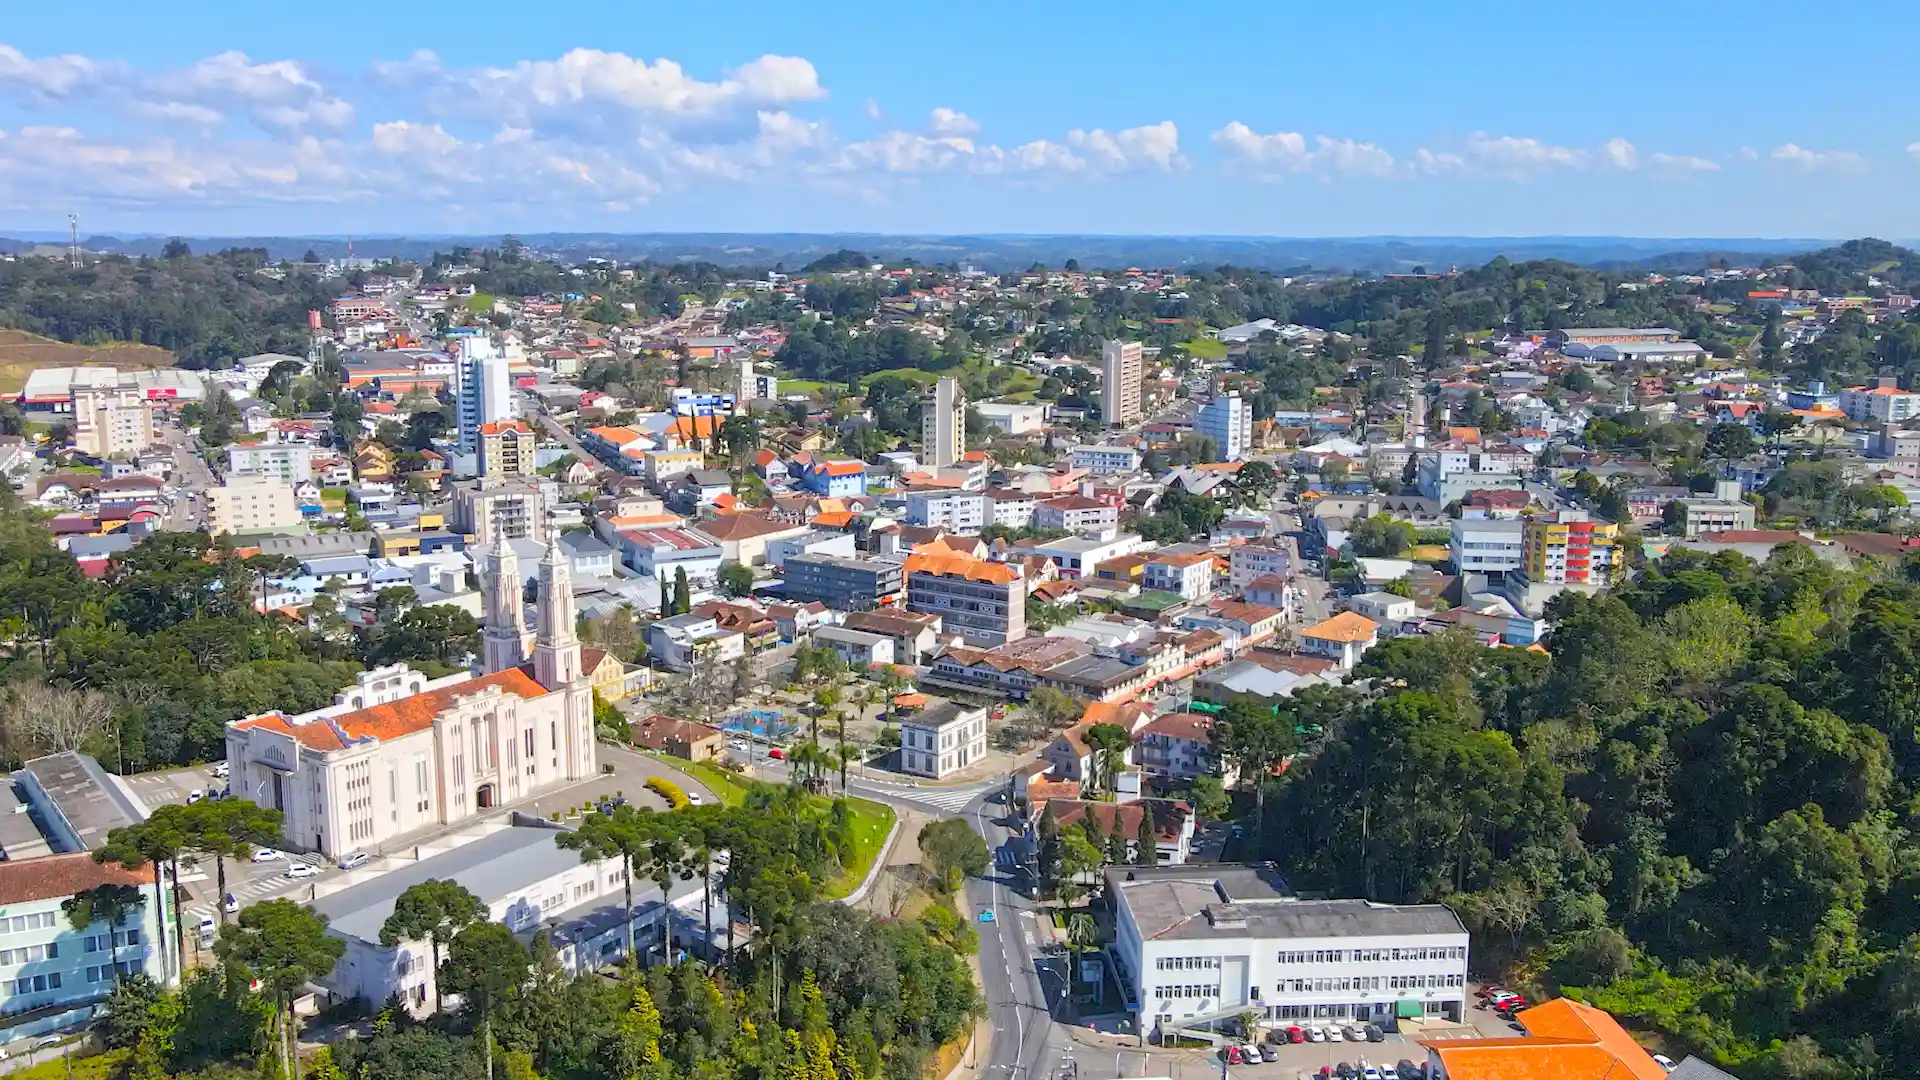
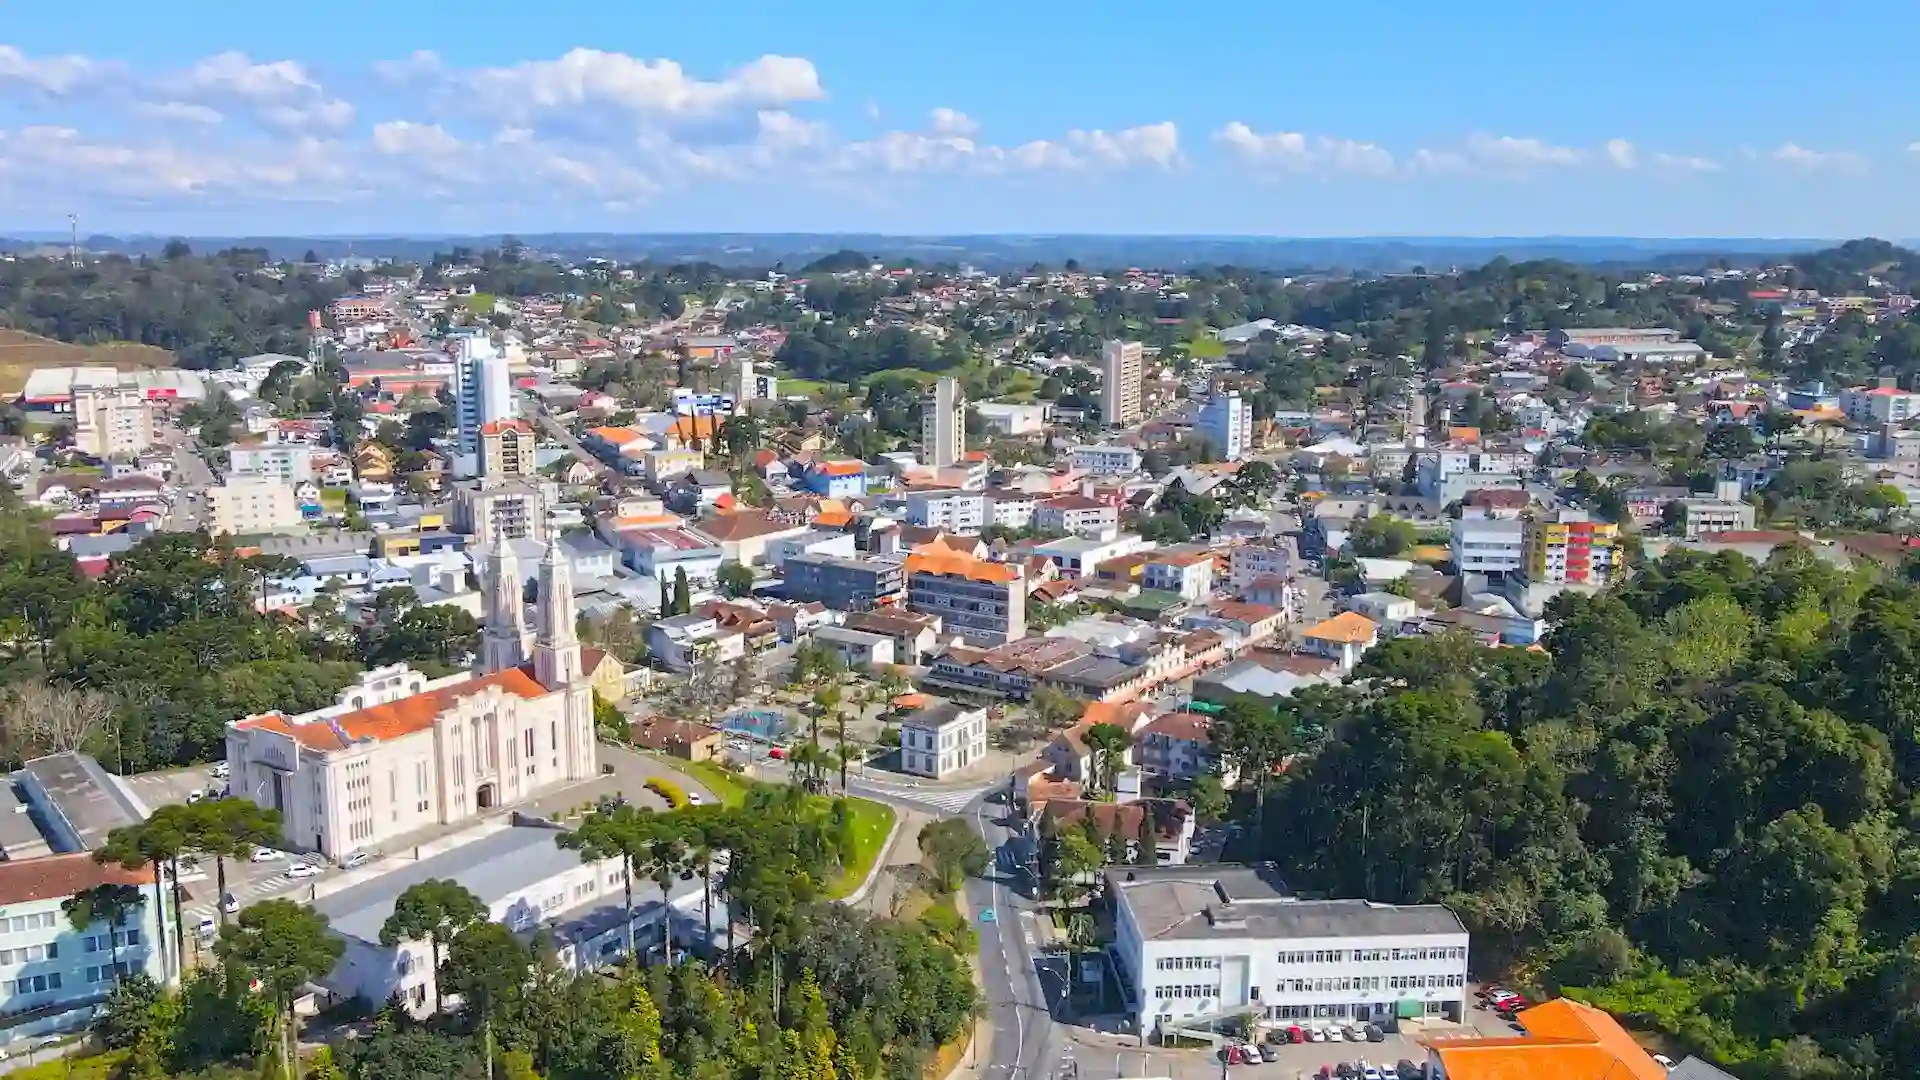
ajustes de imagens e correção no código html

diff --git a/chamber/thankyou.html b/chamber/thankyou.html
@@ -23,6 +23,10 @@
 
     <link rel="stylesheet" href="styles/reset.css"> 
     <link rel="stylesheet" href="styles/main.css">
+    <script src="scripts/home.js" defer></script>
+    <script src="scripts/main.js" defer></script>
+    <script src="scripts/join.js" defer></script>
+    <script src="scripts/thankyou.js" defer></script>
 </head>
 <body>
     <header>
@@ -69,7 +73,7 @@
 
             <div class="footer-social">
                 <a href="#"><img src="images/youtube.webp" alt="Link para o Perfil do YouTube da Câmara"></a>
-                <a href="#"><img src="images/x.webp" alt="Link para o Perfil do Twitter/X da Câmara"></a>
+                <a href="#"><img src="images/twitter.webp" alt="Link para o Perfil do Twitter/X da Câmara"></a>
                 <a href="#"><img src="images/linkedin.webp" alt="Link para o Perfil do LinkedIn da Câmara"></a>
             </div>
 
@@ -80,10 +84,6 @@
             </div>
         </div>
     </footer>
-        <script src="scripts/home.js" defer></script>
-        <script src="scripts/main.js" defer></script>
-        <script src="scripts/join.js" defer></script>
-        <script src="scripts/thankyou.js" defer></script>
 </body>
 </html>
     

diff --git a/chamber/join.html b/chamber/join.html
@@ -23,6 +23,9 @@
 
     <link rel="stylesheet" href="styles/reset.css"> 
     <link rel="stylesheet" href="styles/main.css">
+    <script src="scripts/home.js" defer></script>
+    <script src="scripts/main.js" defer></script>
+    <script src="scripts/join.js" defer></script>
 </head>
 <body>
     <header>
@@ -187,7 +190,7 @@
 
             <div class="footer-social">
                 <a href="#"><img src="images/youtube.webp" alt="Link para o Perfil do YouTube da Câmara"></a>
-                <a href="#"><img src="images/x.webp" alt="Link para o Perfil do Twitter/X da Câmara"></a>
+                <a href="#"><img src="images/twitter.webp" alt="Link para o Perfil do Twitter/X da Câmara"></a>
                 <a href="#"><img src="images/linkedin.webp" alt="Link para o Perfil do LinkedIn da Câmara"></a>
             </div>
 
@@ -198,8 +201,5 @@
             </div>
         </div>
     </footer>
-        <script src="scripts/home.js" defer></script>
-        <script src="scripts/main.js" defer></script>
-        <script src="scripts/join.js" defer></script>
 </body>
 </html>

diff --git a/chamber/index.html b/chamber/index.html
@@ -23,6 +23,8 @@
 
     <link rel="stylesheet" href="styles/reset.css"> 
     <link rel="stylesheet" href="styles/main.css">
+    <script src="scripts/home.js" defer></script>
+    <script src="scripts/main.js" defer></script>
 </head>
 <body>
     <header>
@@ -84,7 +86,7 @@
 
             <div class="footer-social">
                 <a href="#"><img src="images/youtube.webp" alt="Link para o Perfil do YouTube da Câmara"></a>
-                <a href="#"><img src="images/x.webp" alt="Link para o Perfil do Twitter/X da Câmara"></a>
+                <a href="#"><img src="images/twitter.webp" alt="Link para o Perfil do Twitter/X da Câmara"></a>
                 <a href="#"><img src="images/linkedin.webp" alt="Link para o Perfil do LinkedIn da Câmara"></a>
             </div>
 
@@ -94,7 +96,5 @@
                 <p>Última Modificação: <span id="lastmodified"></span></p>
             </div>
     </footer>
-        <script src="scripts/home.js" defer></script>
-        <script src="scripts/main.js" defer></script>
 </body>
 </html>

diff --git a/chamber/directory.html b/chamber/directory.html
@@ -24,6 +24,7 @@
     
     <link rel="stylesheet" href="styles/reset.css"> 
     <link rel="stylesheet" href="styles/main.css">
+    <script src="scripts/main.js" defer></script>
 </head>
 
 <body>
@@ -83,7 +84,7 @@
 
             <div class="footer-social">
                 <a href="#"><img src="images/youtube.webp" alt="Link para o Perfil do YouTube da Câmara"></a>
-                <a href="#"><img src="images/x.webp" alt="Link para o Perfil do Twitter/X da Câmara"></a>
+                <a href="#"><img src="images/twitter.webp" alt="Link para o Perfil do Twitter/X da Câmara"></a>
                 <a href="#"><img src="images/linkedin.webp" alt="Link para o Perfil do LinkedIn da Câmara"></a>
             </div>
 
@@ -94,7 +95,6 @@
             </div>
         </div>
     </footer>
-    <script src="scripts/main.js" defer></script>
 </body>
 
 </html>